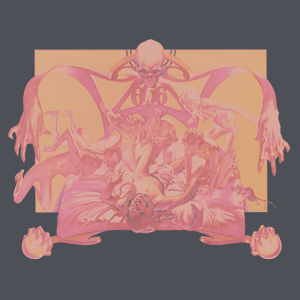
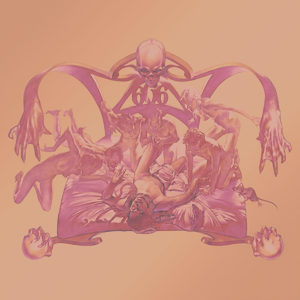
Replace Sabbath Bloody Sabbath album art with new cover.
Regenerate T3 wash from the updated base.

diff --git a/index.html b/index.html
@@ -2803,7 +2803,7 @@ var ALBUMS_DEFAULT = [
     { song: "Rat Salad", sections: [["I1",3,"RS-I1"],["V2",3],["S1",1]] },
     { song: "Fairies Wear Boots", sections: [["I1",2,"FOB-I1"],["I2",2,"FOB-I2"],["I3",2,"FOB-I3"],["I4",2,"FOB-I4"],["S1",1,"FOB-S1"],["V1",3,"FOB-V1"],["B1",3,"FOB-B1"],["L1",2,"FOB-L1"],["S2",1,"FOB-S2"],["F1",3]] },
   ]},
-  { name: "Sabbath Bloody Sabbath", cover: "covers/sbs.png?v=2", font: "font-sbs", songs: [
+  { name: "Sabbath Bloody Sabbath", cover: "covers/sbs.png?v=3", font: "font-sbs", songs: [
     { song: "Sabbath Bloody Sabbath", sections: [["V1",1],["PC1",2],["PC2",2],["S1",1],["B1",3],["B2",2],["B3",2],["B4",2],["S2",2]] },
     { song: "A National Acrobat", sections: [["I1",1],["V1",3],["B1",1],["S1",1],["B2",3],["B3",3],["B4",3],["B5",3],["B6",3],["S3",3]] },
     { song: "Fluff", sections: [] },
@@ -3857,7 +3857,7 @@ function pullPlayQueue() {
 }
 function openPlayWindow() {
   var base = location.href.split("?")[0].split("#")[0];
-  var url = base + "?playboard=1&v=84";
+  var url = base + "?playboard=1&v=85";
   /* Centered popup window (not a tab) — no LL resize/move */
   var availL = (window.screen && typeof screen.availLeft === "number") ? screen.availLeft : 0;
   var availT = (window.screen && typeof screen.availTop === "number") ? screen.availTop : 0;
@@ -5392,7 +5392,7 @@ var CATALOG = [
   ["LFT-1C","C"],["LFT-1D","D"]
 ];
 var FOLDER = { A: "a-crops/", B: "b-crops/", B2: "b-crops/", C: "svg/", D: "svg/" };
-var COVER = { A: "covers/sbs.png?v=2", B: "covers/paranoid.png", B2: "covers/paranoid.png" };
+var COVER = { A: "covers/sbs.png?v=3", B: "covers/paranoid.png", B2: "covers/paranoid.png" };
 var COVER_BY_TIER = {
   1: "covers/paranoid.png", /* unaltered — same as T2 */
   2: "covers/paranoid.png",
@@ -5406,7 +5406,7 @@ function llCoverForAlbumTier(album, tier) {
   tier = parseInt(tier, 10);
   if (!(tier >= 1 && tier <= 2)) tier = 3;
   if (album === "Sabbath Bloody Sabbath") {
-    return (tier >= 3) ? "covers/sbs-tier3.png?v=2" : "covers/sbs.png?v=2";
+    return (tier >= 3) ? "covers/sbs-tier3.png?v=3" : "covers/sbs.png?v=3";
   }
   /* Paranoid default */
   if (COVER_BY_TIER[tier]) return COVER_BY_TIER[tier];
@@ -5817,7 +5817,7 @@ function llSongRowsForLibrary() {
   return rows;
 }
 function llAlbumCoverUrl(albumName) {
-  if (albumName === "Sabbath Bloody Sabbath") return "covers/sbs.png?v=2";
+  if (albumName === "Sabbath Bloody Sabbath") return "covers/sbs.png?v=3";
   if (albumName === "Master of Reality") return "covers/mor.png";
   return "covers/paranoid.png";
 }
